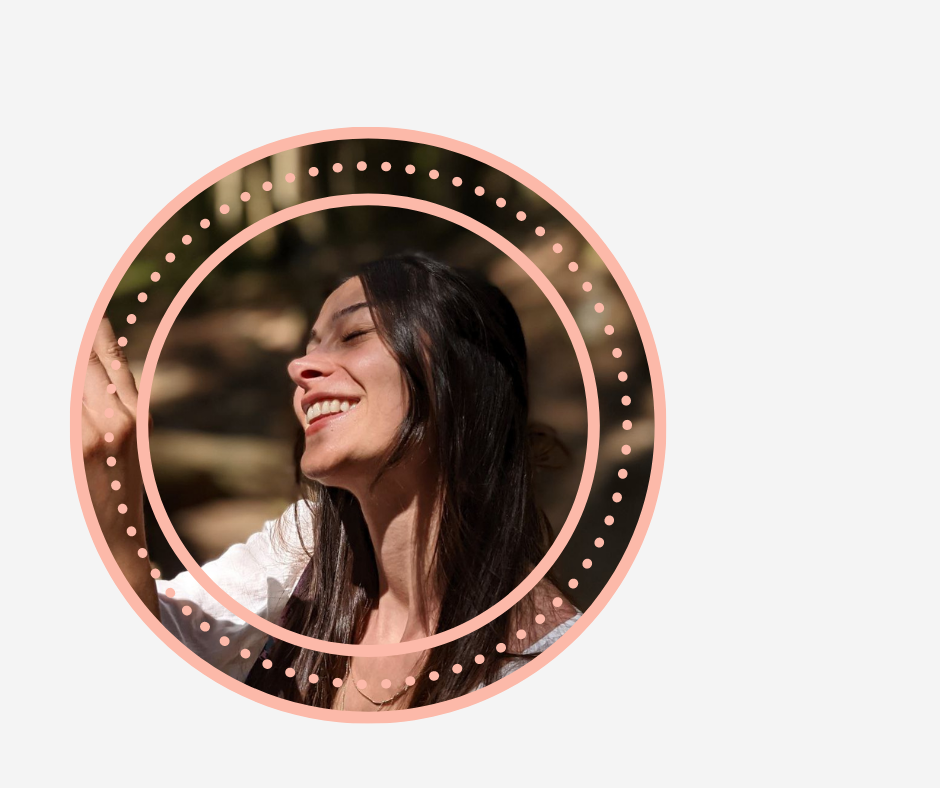
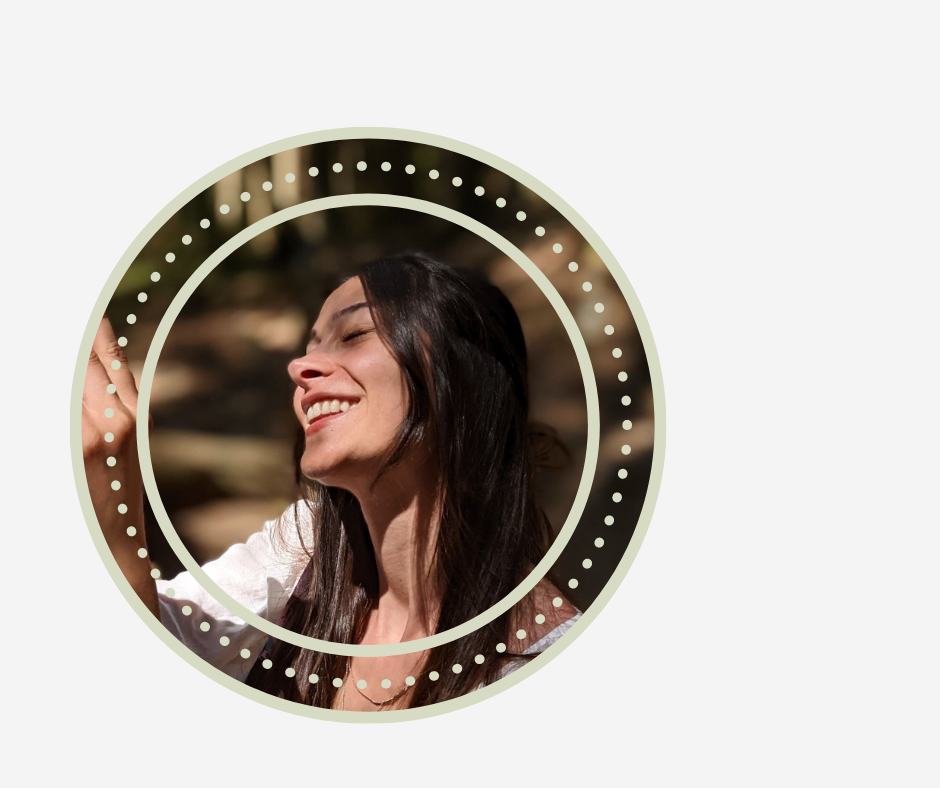
help button deleted

Changed region(s): [[0.0617, 0.1523, 0.7096, 0.9442]]

diff --git a/assets/scss/_variables.scss b/assets/scss/_variables.scss
@@ -115,11 +115,11 @@ $purple: #5e2ca5 !default;
 $light-purple: #a463f2 !default;
 $dark-pink: #d5008f !default;
 $hot-pink: #ff41b4 !default;
-$pink: #ff80cc !default;
+$pink: #e26a6acf !default;
 $light-pink: #ffa3d7 !default;
 $dark-green: #137752 !default;
 $green: #19a974 !default;
-$light-green: #9eebcf !default;
+$light-green: #D8DBC4 !default;
 $navy: #001b44 !default;
 $dark-blue: #00449e !default;
 $blue: #357edd !default;
